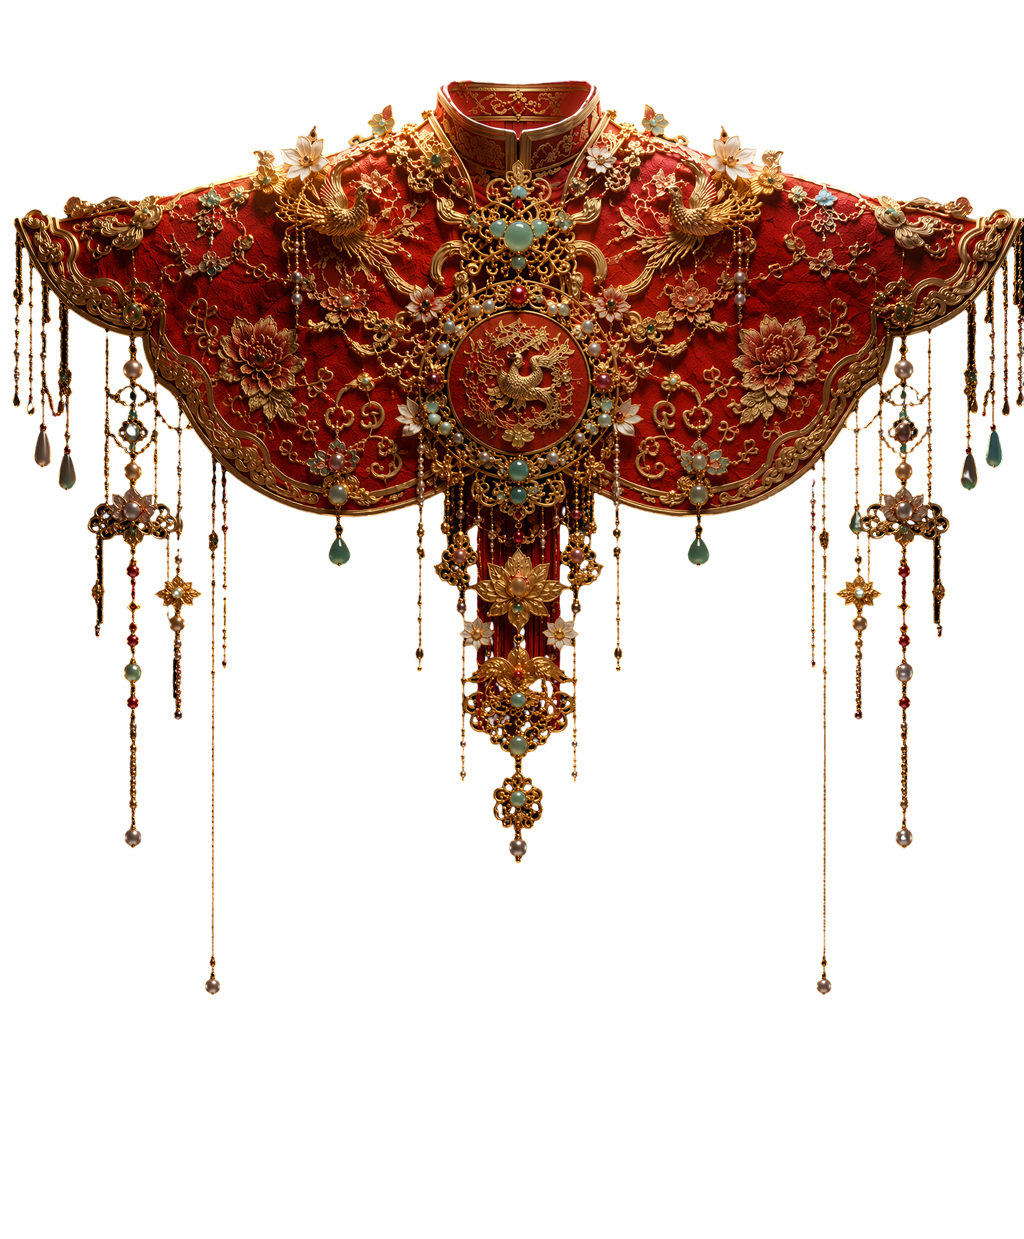
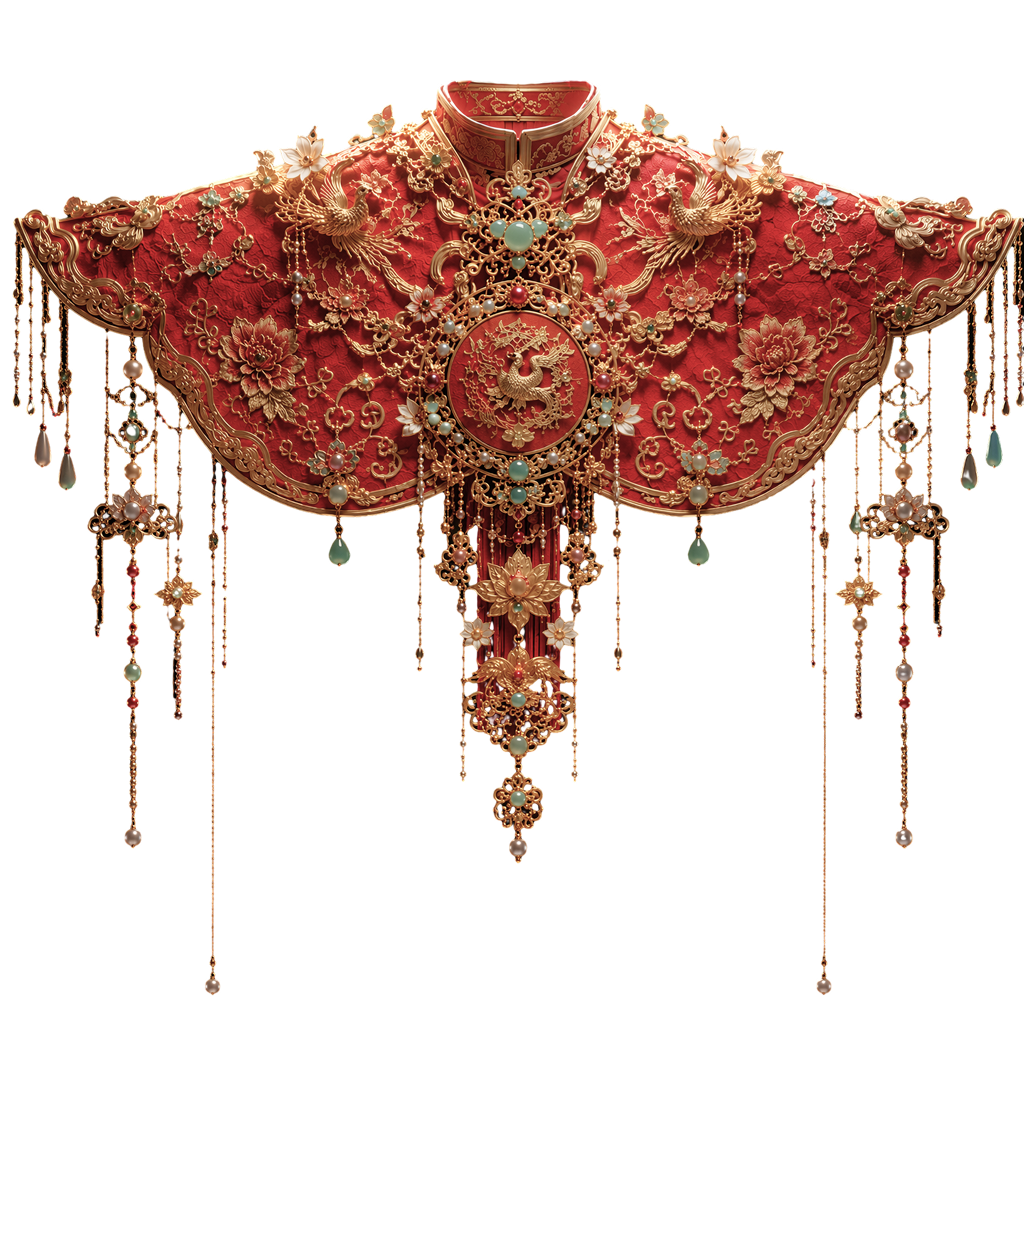
feat: adjust curtain alpha threshold and refine strand rendering logic

Changed region(s): [[0.0, 0.0613, 1.0, 0.7054], [0.7812, 0.7667, 0.8125, 0.7974], [0.1875, 0.7667, 0.2188, 0.7974]]

diff --git a/components/text-curtain.tsx b/components/text-curtain.tsx
@@ -58,7 +58,7 @@ const MOUSE_RADIUS = 120
 const DAMPING = 0.94
 const HOME_STIFFNESS = 0.014
 const CONSTRAINT_ITERATIONS = 2
-const ALPHA_THRESHOLD = 40
+const ALPHA_THRESHOLD = 24
 
 /**
  * A curtain of characters. Each column is a verlet chain pinned at
@@ -231,10 +231,22 @@ export function TextCurtain({
         contourW - 1,
         Math.max(0, Math.round(((pageX - imgRect.left) / imgRect.width) * contourW)),
       )
+      // sample a small horizontal window so hairline paths (tassel
+      // strands, bead chains) between column samples still register —
+      // half a column spacing in image pixels, capped to stay narrow
+      const halfWin = Math.min(
+        6,
+        Math.max(1, Math.round(((COL_SPACING / 2) * contourW) / imgRect.width)),
+      )
+      const x0 = Math.max(0, ix - halfWin)
+      const x1 = Math.min(contourW - 1, ix + halfWin)
       for (let iy = contourH - 1; iy >= 0; iy--) {
-        if (contourPixels[(iy * contourW + ix) * 4 + 3] > ALPHA_THRESHOLD) {
-          const pageY = imgRect.top + (iy / contourH) * imgRect.height
-          return pageY - canvasRect.top
+        const rowBase = iy * contourW
+        for (let sx = x0; sx <= x1; sx++) {
+          if (contourPixels[(rowBase + sx) * 4 + 3] > ALPHA_THRESHOLD) {
+            const pageY = imgRect.top + (iy / contourH) * imgRect.height
+            return pageY - canvasRect.top
+          }
         }
       }
       return null
@@ -266,11 +278,12 @@ export function TextCurtain({
         // strand starts just under the eave path
         const startY = topY + 6
         const available = height - startY
-        if (available < ROW_SPACING * 3) continue
+        // even a couple of characters may hang from a long tassel tip
+        if (available < ROW_SPACING * 2) continue
 
         // organic ragged bottom edge per column
         const lengthJitter = 0.72 + rand(c * 7.3) * 0.28
-        const colRows = Math.max(3, Math.floor((available / ROW_SPACING) * lengthJitter))
+        const colRows = Math.max(2, Math.floor((available / ROW_SPACING) * lengthJitter))
 
         // each column reads down the pool from its own offset, so the
         // curtain looks like continuous vertical prose, not noise

diff --git a/lib/destinations.ts b/lib/destinations.ts
@@ -145,9 +145,9 @@ export const destinations: Destination[] = [
     curtainWidth: 0.84,
     roofOverlap: 20,
     theme: 'dark',
-    // inks from the cape: vermilion silk, amber gold between red and
-    // yellow, warm brass, with rare jade-green bead accents
-    curtainColors: ['#e0873a', '#d45a42', '#e8b84b', '#e0873a', '#c94f38', '#f0c552', '#8fc9a0', '#e0873a'],
+    // inks from the cape: a tight red-to-gold range — vermilion silk,
+    // amber between red and yellow, warm gold. No green, no extras.
+    curtainColors: ['#d4553e', '#e0873a', '#e8b84b', '#e0873a', '#d4553e', '#e8b84b'],
   },
   {
     id: 'fenghou',